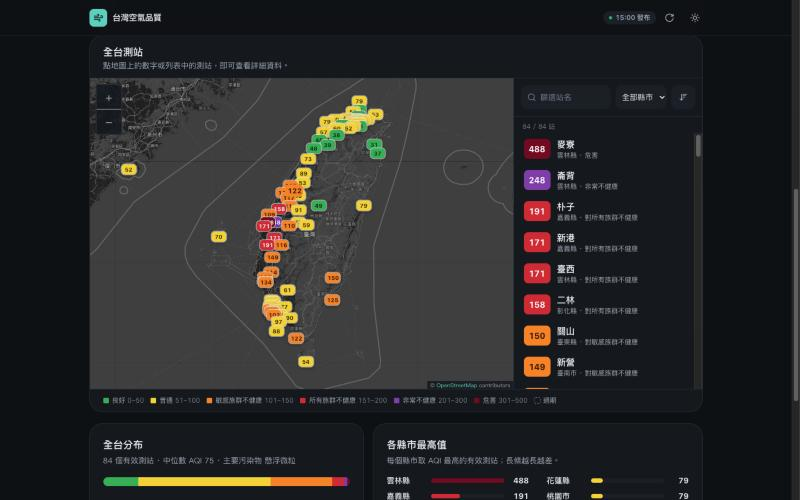
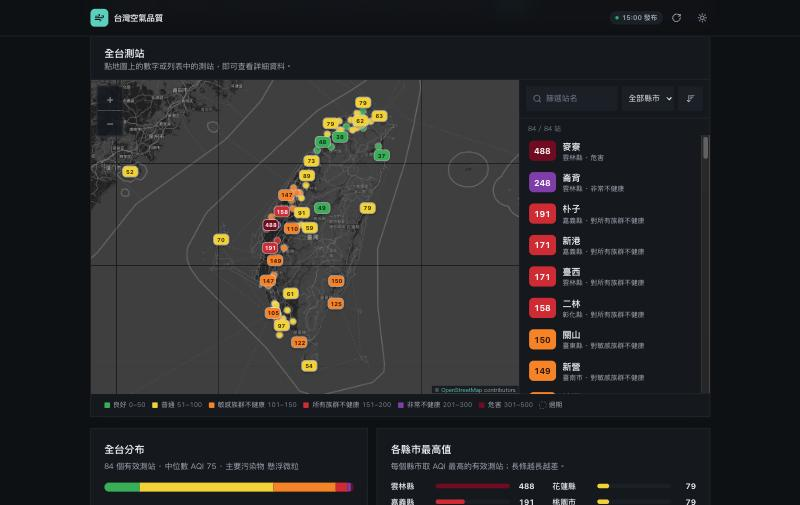
fix: declutter map pins and drop local paths from review log
- Screen-space collision avoidance for AQI pins: the selected station,
  current data and higher AQI win contested spots; the rest render as
  category-coloured dots and expand into numbers when zooming in
- Pins always stack above dots; legend explains the dots
- Replace absolute local paths in REVIEW_LOG.md with plain descriptions
- Retake desktop and mobile map screenshots

diff --git a/src/components/AirMap.tsx b/src/components/AirMap.tsx
@@ -1,9 +1,10 @@
 import L from 'leaflet';
 import 'leaflet/dist/leaflet.css';
 import './air-map.css';
-import { useEffect, useRef } from 'react';
+import { useCallback, useEffect, useRef } from 'react';
 import type { AqiStationRecord } from '../lib/aqi';
 import { AQI_SWATCHES } from '../lib/palette';
+import { selectVisiblePins } from '../lib/pinLayout';
 
 type AirMapProps = {
   stations: AqiStationRecord[];
@@ -19,14 +20,69 @@ const TILE_URL = 'https://tile.openstreetmap.org/{z}/{x}/{y}.png';
 const TILE_ATTRIBUTION = '&copy; <a href="https://www.openstreetmap.org/copyright">OpenStreetMap</a> contributors';
 const COMPACT_BELOW_ZOOM = 8.5;
 
+// Pin footprints (px) used for collision avoidance; match .aqi-pin in air-map.css.
+const PIN_BOX = { width: 36, height: 24, gap: 4 };
+const COMPACT_PIN_BOX = { width: 28, height: 18, gap: 3 };
+
+type MarkerState = Pick<AirMapProps, 'stations' | 'selectedId' | 'canShowCurrent'>;
+
 export function AirMap({ stations, selectedId, canShowCurrent, onSelect }: AirMapProps) {
   const containerRef = useRef<HTMLDivElement>(null);
   const mapRef = useRef<L.Map | null>(null);
   const markersRef = useRef<L.LayerGroup | null>(null);
+  const stateRef = useRef<MarkerState>({ stations, selectedId, canShowCurrent });
   const onSelectRef = useRef(onSelect);
   useEffect(() => {
     onSelectRef.current = onSelect;
   }, [onSelect]);
+
+  const drawMarkers = useCallback(() => {
+    const map = mapRef.current;
+    const layer = markersRef.current;
+    if (!map || !layer) return;
+    const { stations, selectedId, canShowCurrent } = stateRef.current;
+    const compact = map.getZoom() < COMPACT_BELOW_ZOOM;
+    containerRef.current?.classList.toggle('is-compact', compact);
+
+    const placed = stations.flatMap((station) => {
+      if (typeof station.latitude !== 'number' || typeof station.longitude !== 'number') return [];
+      const live = canShowCurrent && !station.isStale;
+      const point = map.latLngToContainerPoint([station.latitude, station.longitude]);
+      // Selected first, then current data, then the worst air: the riskiest numbers stay readable.
+      const priority = (station.siteId === selectedId ? 10_000 : 0) + (live ? 1_000 : 0) + station.aqi;
+      return [{ station, live, point, priority }];
+    });
+    const visible = selectVisiblePins(
+      placed.map(({ station, point, priority }) => ({ id: station.siteId, x: point.x, y: point.y, priority })),
+      compact ? COMPACT_PIN_BOX : PIN_BOX
+    );
+
+    layer.clearLayers();
+    for (const { station, live, priority } of placed) {
+      const swatch = AQI_SWATCHES[live ? station.categoryId : 'unknown'];
+      const asPin = visible.has(station.siteId);
+      const classes = [asPin ? 'aqi-pin' : 'aqi-dot', live ? '' : 'is-stale', station.siteId === selectedId ? 'is-selected' : '']
+        .filter(Boolean)
+        .join(' ');
+      const icon = L.divIcon({
+        className: 'aqi-pin-icon',
+        iconSize: [0, 0],
+        html: `<span class="${classes}" style="--fill:${swatch.fill};--ink:${swatch.ink}">${asPin ? station.aqi : ''}</span>`
+      });
+      const statusText = live ? station.category.label : '資料過期';
+      L.marker([station.latitude!, station.longitude!], {
+        icon,
+        keyboard: true,
+        title: `${station.county} ${station.stationName}：AQI ${station.aqi}（${statusText}）`,
+        alt: `${station.stationName} AQI ${station.aqi}`,
+        riseOnHover: true,
+        // Number pins always stack above dots, whatever their priority.
+        zIndexOffset: (asPin ? 20_000 : 0) + priority
+      })
+        .on('click', () => onSelectRef.current(station))
+        .addTo(layer);
+    }
+  }, []);
 
   useEffect(() => {
     if (!containerRef.current || mapRef.current) return;
@@ -40,54 +96,27 @@ export function AirMap({ stations, selectedId, canShowCurrent, onSelect }: AirMa
     map.fitBounds(TAIWAN_BOUNDS, { padding: [8, 8] });
     map.attributionControl.setPrefix(false);
     L.tileLayer(TILE_URL, { attribution: TILE_ATTRIBUTION, maxZoom: 19 }).addTo(map);
-    const syncDensity = () => containerRef.current?.classList.toggle('is-compact', map.getZoom() < COMPACT_BELOW_ZOOM);
-    map.on('zoomend', syncDensity);
-    syncDensity();
     markersRef.current = L.layerGroup().addTo(map);
     mapRef.current = map;
+    // Pixel distances only change with zoom (and container size), not with panning.
+    map.on('zoomend', drawMarkers);
 
-    const resize = new ResizeObserver(() => map.invalidateSize());
+    const resize = new ResizeObserver(() => {
+      map.invalidateSize();
+      drawMarkers();
+    });
     resize.observe(containerRef.current);
     return () => {
       resize.disconnect();
       map.remove();
       mapRef.current = null;
     };
-  }, []);
+  }, [drawMarkers]);
 
   useEffect(() => {
-    const layer = markersRef.current;
-    if (!layer) return;
-    layer.clearLayers();
-    // Draw low values first so higher-AQI pins sit on top where they overlap.
-    const ordered = [...stations].sort((a, b) => {
-      if (a.siteId === selectedId) return 1;
-      if (b.siteId === selectedId) return -1;
-      return a.aqi - b.aqi;
-    });
-    for (const station of ordered) {
-      if (typeof station.latitude !== 'number' || typeof station.longitude !== 'number') continue;
-      const live = canShowCurrent && !station.isStale;
-      const swatch = AQI_SWATCHES[live ? station.categoryId : 'unknown'];
-      const classes = ['aqi-pin', live ? '' : 'is-stale', station.siteId === selectedId ? 'is-selected' : ''].filter(Boolean).join(' ');
-      const icon = L.divIcon({
-        className: 'aqi-pin-icon',
-        iconSize: [0, 0],
-        html: `<span class="${classes}" style="--fill:${swatch.fill};--ink:${swatch.ink}">${station.aqi}</span>`
-      });
-      const statusText = live ? station.category.label : '資料過期';
-      L.marker([station.latitude, station.longitude], {
-        icon,
-        keyboard: true,
-        title: `${station.county} ${station.stationName}：AQI ${station.aqi}（${statusText}）`,
-        alt: `${station.stationName} AQI ${station.aqi}`,
-        riseOnHover: true,
-        zIndexOffset: station.siteId === selectedId ? 1000 : 0
-      })
-        .on('click', () => onSelectRef.current(station))
-        .addTo(layer);
-    }
-  }, [stations, selectedId, canShowCurrent]);
+    stateRef.current = { stations, selectedId, canShowCurrent };
+    drawMarkers();
+  }, [stations, selectedId, canShowCurrent, drawMarkers]);
 
   useEffect(() => {
     const map = mapRef.current;

diff --git a/src/lib/pinLayout.test.ts b/src/lib/pinLayout.test.ts
@@ -1,0 +1,51 @@
+import { describe, expect, it } from 'vitest';
+import { selectVisiblePins } from './pinLayout';
+
+const box = { width: 36, height: 24, gap: 4 };
+
+describe('selectVisiblePins', () => {
+  it('keeps every pin when none overlap', () => {
+    const visible = selectVisiblePins(
+      [
+        { id: 'a', x: 0, y: 0, priority: 1 },
+        { id: 'b', x: 100, y: 0, priority: 2 },
+        { id: 'c', x: 0, y: 100, priority: 3 }
+      ],
+      box
+    );
+    expect([...visible].sort()).toEqual(['a', 'b', 'c']);
+  });
+
+  it('gives a contested spot to the higher priority pin', () => {
+    const visible = selectVisiblePins(
+      [
+        { id: 'low', x: 0, y: 0, priority: 40 },
+        { id: 'high', x: 10, y: 5, priority: 180 }
+      ],
+      box
+    );
+    expect([...visible]).toEqual(['high']);
+  });
+
+  it('treats the gap as part of the box', () => {
+    const touching = [
+      { id: 'a', x: 0, y: 0, priority: 2 },
+      { id: 'b', x: 38, y: 0, priority: 1 }
+    ];
+    expect(selectVisiblePins(touching, box).has('b')).toBe(false);
+    expect(selectVisiblePins(touching, { ...box, gap: 0 }).has('b')).toBe(true);
+  });
+
+  it('lets a dropped pin free its spot for others', () => {
+    // b loses to a; c only overlaps b, so it must still be placed.
+    const visible = selectVisiblePins(
+      [
+        { id: 'a', x: 0, y: 0, priority: 3 },
+        { id: 'b', x: 30, y: 0, priority: 2 },
+        { id: 'c', x: 60, y: 0, priority: 1 }
+      ],
+      box
+    );
+    expect([...visible].sort()).toEqual(['a', 'c']);
+  });
+});

diff --git a/src/lib/pinLayout.ts b/src/lib/pinLayout.ts
@@ -1,0 +1,35 @@
+export type PinCandidate = {
+  id: string;
+  /** Screen position of the pin centre, in pixels. */
+  x: number;
+  y: number;
+  /** Higher wins a contested spot. */
+  priority: number;
+};
+
+export type PinBox = { width: number; height: number; gap: number };
+
+/**
+ * Greedy collision avoidance for map labels: candidates are placed in
+ * priority order, and any pin whose box would overlap an already placed
+ * one is left out (the map draws it as a small dot instead). Returns the
+ * ids that get a full number pin.
+ */
+export function selectVisiblePins(candidates: PinCandidate[], box: PinBox): Set<string> {
+  const halfWidth = box.width / 2 + box.gap / 2;
+  const halfHeight = box.height / 2 + box.gap / 2;
+  const placed: PinCandidate[] = [];
+  const visible = new Set<string>();
+
+  for (const candidate of [...candidates].sort((a, b) => b.priority - a.priority)) {
+    const collides = placed.some(
+      (other) => Math.abs(other.x - candidate.x) < halfWidth * 2 && Math.abs(other.y - candidate.y) < halfHeight * 2
+    );
+    if (!collides) {
+      placed.push(candidate);
+      visible.add(candidate.id);
+    }
+  }
+
+  return visible;
+}

diff --git a/src/components/air-map.css b/src/components/air-map.css
@@ -21,6 +21,26 @@
   font-size: 10px;
 }
 
+.aqi-dot {
+  display: block;
+  width: 10px;
+  height: 10px;
+  border-radius: 9999px;
+  background: var(--fill);
+  box-shadow: 0 0 0 1.5px rgb(255 255 255 / 0.95), 0 1px 3px rgb(0 0 0 / 0.3);
+  transform: translate(-50%, -50%);
+  cursor: pointer;
+}
+
+.dark .aqi-dot {
+  box-shadow: 0 0 0 1.5px rgb(255 255 255 / 0.55), 0 1px 3px rgb(0 0 0 / 0.5);
+}
+
+.aqi-dot.is-stale {
+  background: rgb(var(--surface));
+  box-shadow: inset 0 0 0 1.5px rgb(var(--faint));
+}
+
 .aqi-pin-icon {
   background: transparent;
   border: 0;

diff --git a/src/components/StationList.tsx b/src/components/StationList.tsx
@@ -126,6 +126,10 @@ export function MapLegend({ dimmed }: { dimmed: boolean }) {
         <span className="h-2.5 w-2.5 rounded-sm outline-dashed outline-1 outline-faint" aria-hidden="true" />
         <span>過期</span>
       </li>
+      <li className="flex items-center gap-1.5">
+        <span className="h-2.5 w-2.5 rounded-full bg-faint" aria-hidden="true" />
+        <span>小圓點：放大可看數字</span>
+      </li>
     </ul>
   );
 }

diff --git a/docs/ux-research.md b/docs/ux-research.md
@@ -54,6 +54,7 @@
 | 深淺色 | ✅ | 跟隨系統，可手動切換；head 內聯腳本在首次繪製前套用主題，不會閃白；地圖圖磚同步反轉 |
 | 沒有版面跳動 | ✅ | CLS：行動版 0.004、桌面 0.007；地圖容器高度固定 |
 | 鍵盤與螢幕閱讀器 | ✅ | combobox 支援上下鍵、Enter、Esc；地圖標記可聚焦；地圖有對等的列表；狀態訊息用 `role=status` |
+| 地圖標記可讀 | ✅ | 依螢幕像素做碰撞避讓（`src/lib/pinLayout.ts`，有單元測試）：優先顯示所選測站，再來是有效資料、AQI 較高者；會重疊的改成同色小圓點，放大後展開成數字。1440 px：30 個數字＋54 個圓點；390 px：24＋60 |
 | 無水平捲動 | ✅ | 375 與 390 px 下 `scrollWidth === clientWidth` |
 
 **Lighthouse 13.5.0**（本機 `vite preview`，數字依序為 performance／accessibility／best practices／SEO）：

diff --git a/REVIEW_LOG.md b/REVIEW_LOG.md
@@ -4,8 +4,8 @@
 
 Scope reviewed:
 
-- Empty target folder at `/Users/jiaquan/Development/taiwan-aqi-dashboard`.
-- Local reservoir reference project at `/Users/jiaquan/Development/acc/taiwan-reservoir-static`.
+- Empty target project folder for this dashboard.
+- The sibling Taiwan reservoir dashboard, used as a design-family reference.
 - Official MOENV dataset page for `AQX_P_432`.
 - Official API usage page.
 - Live `curl` check without `api_key`.
